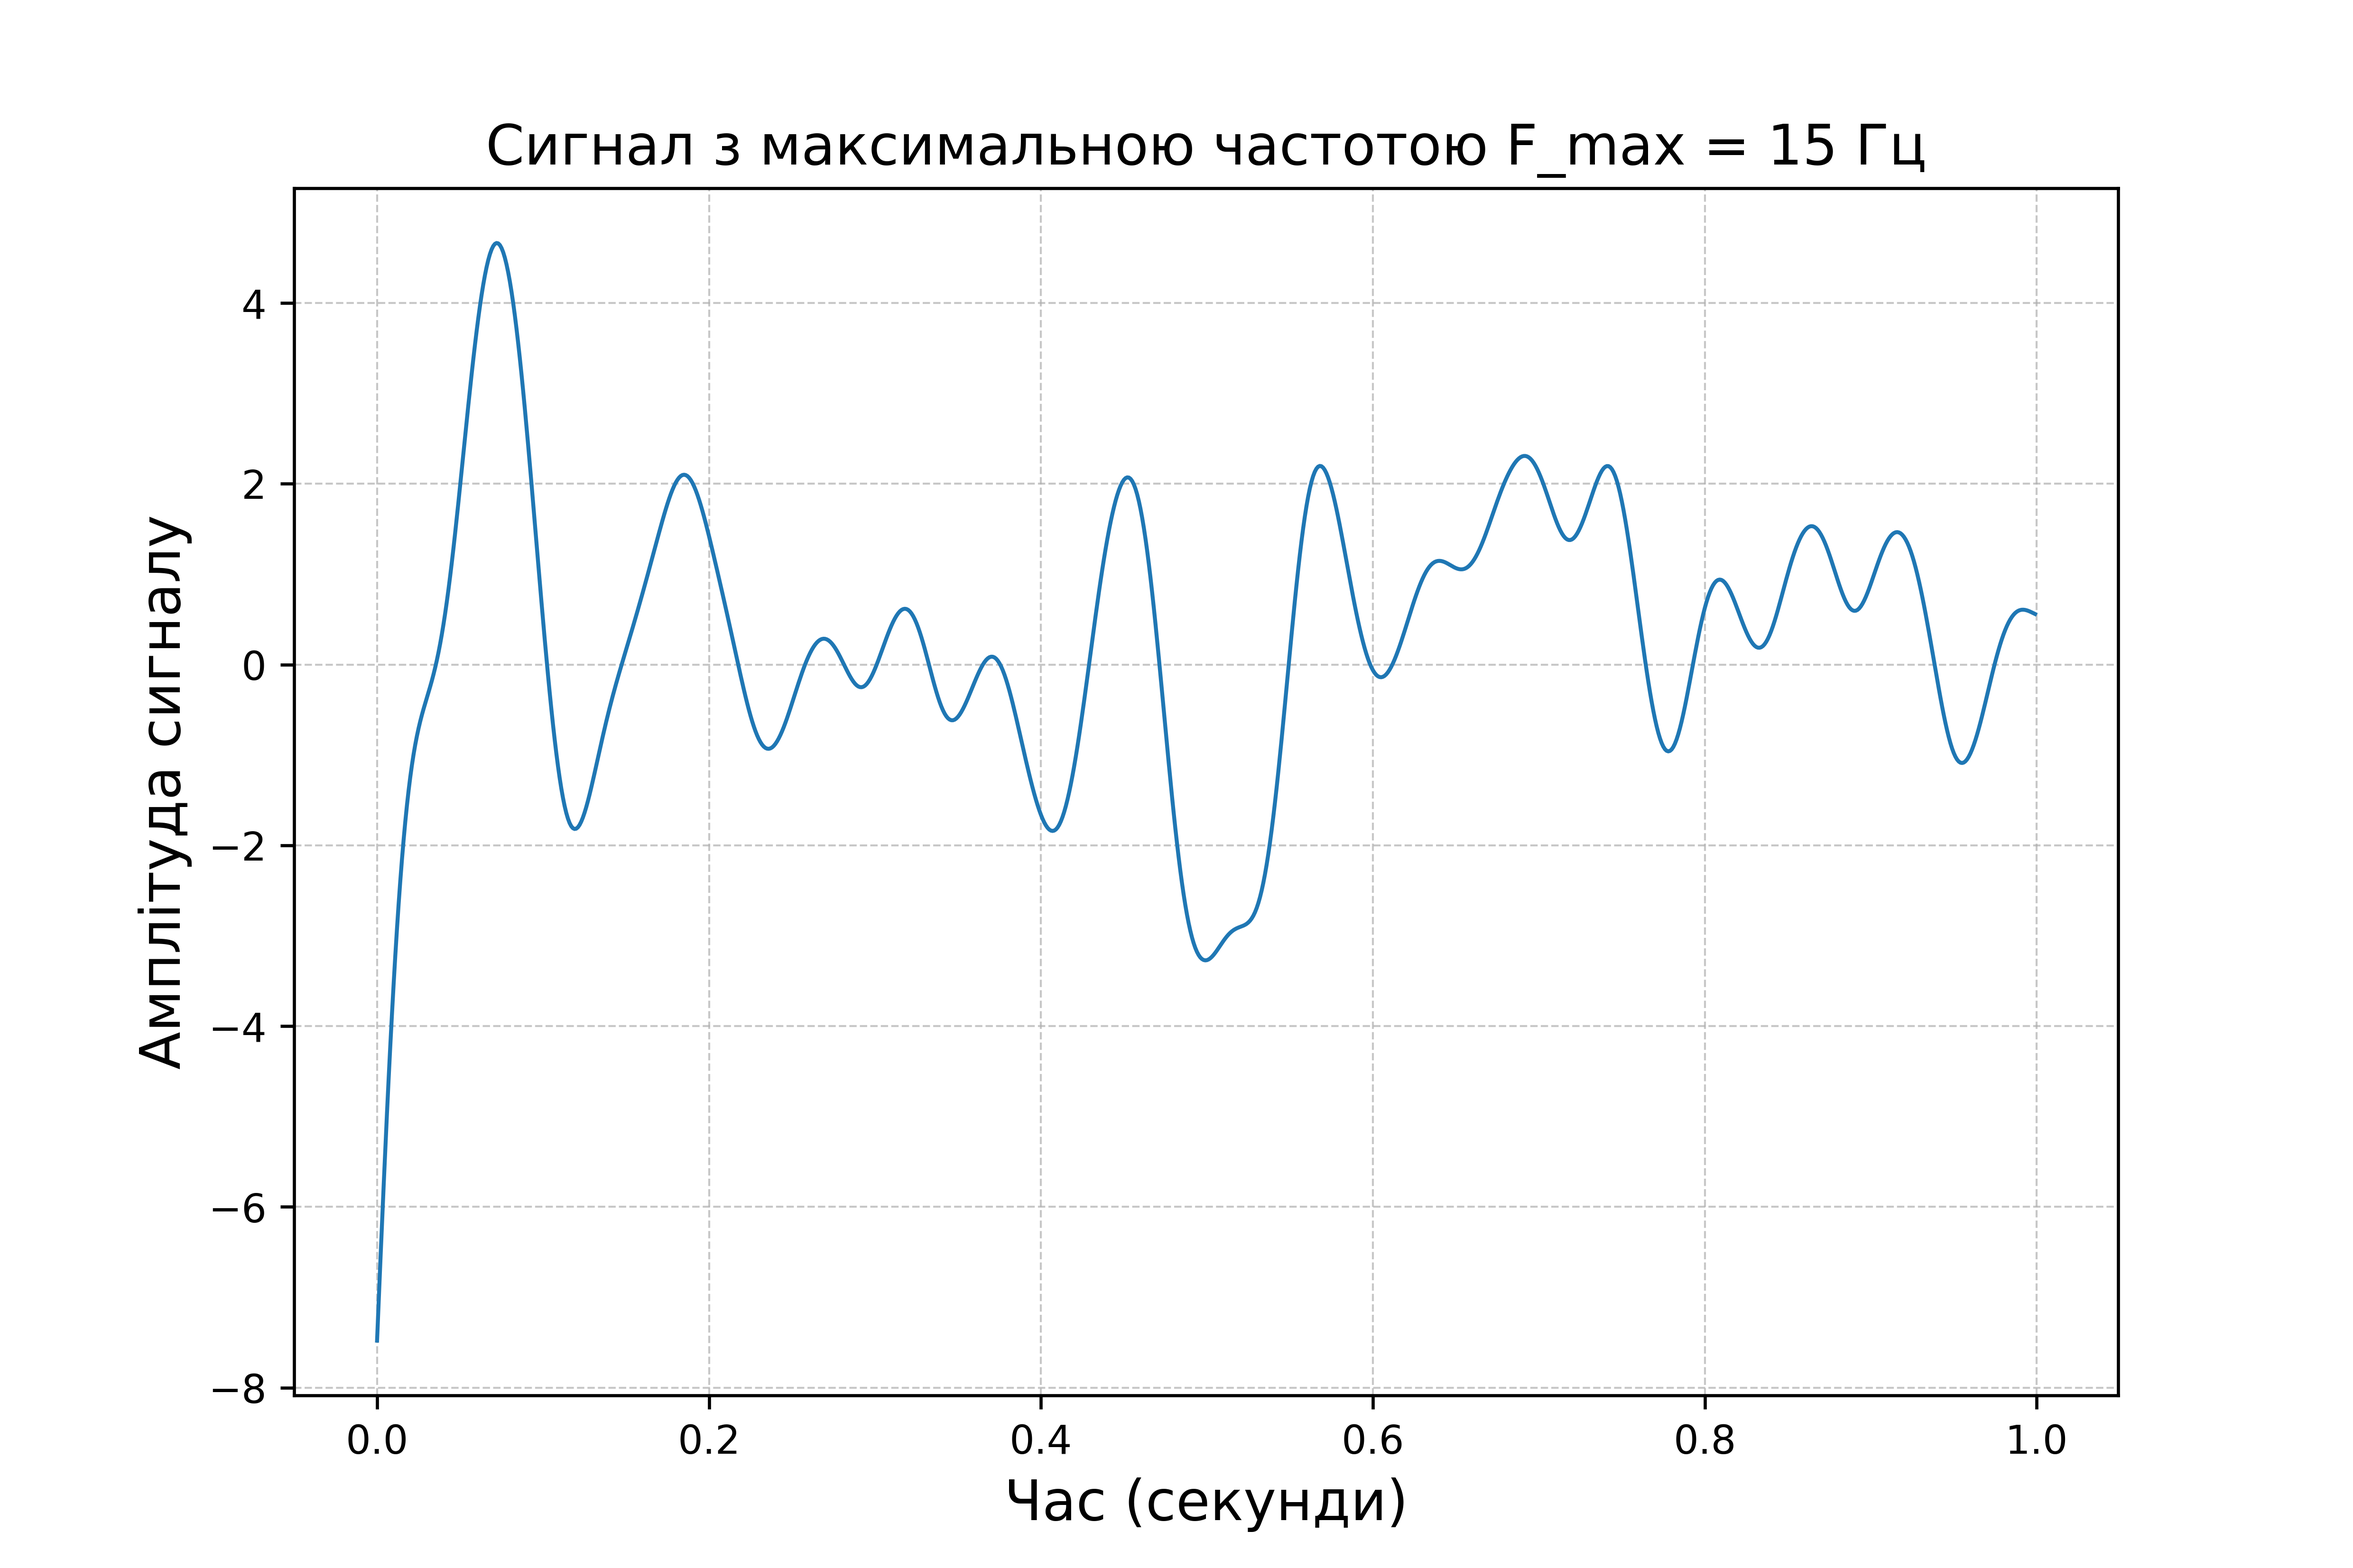
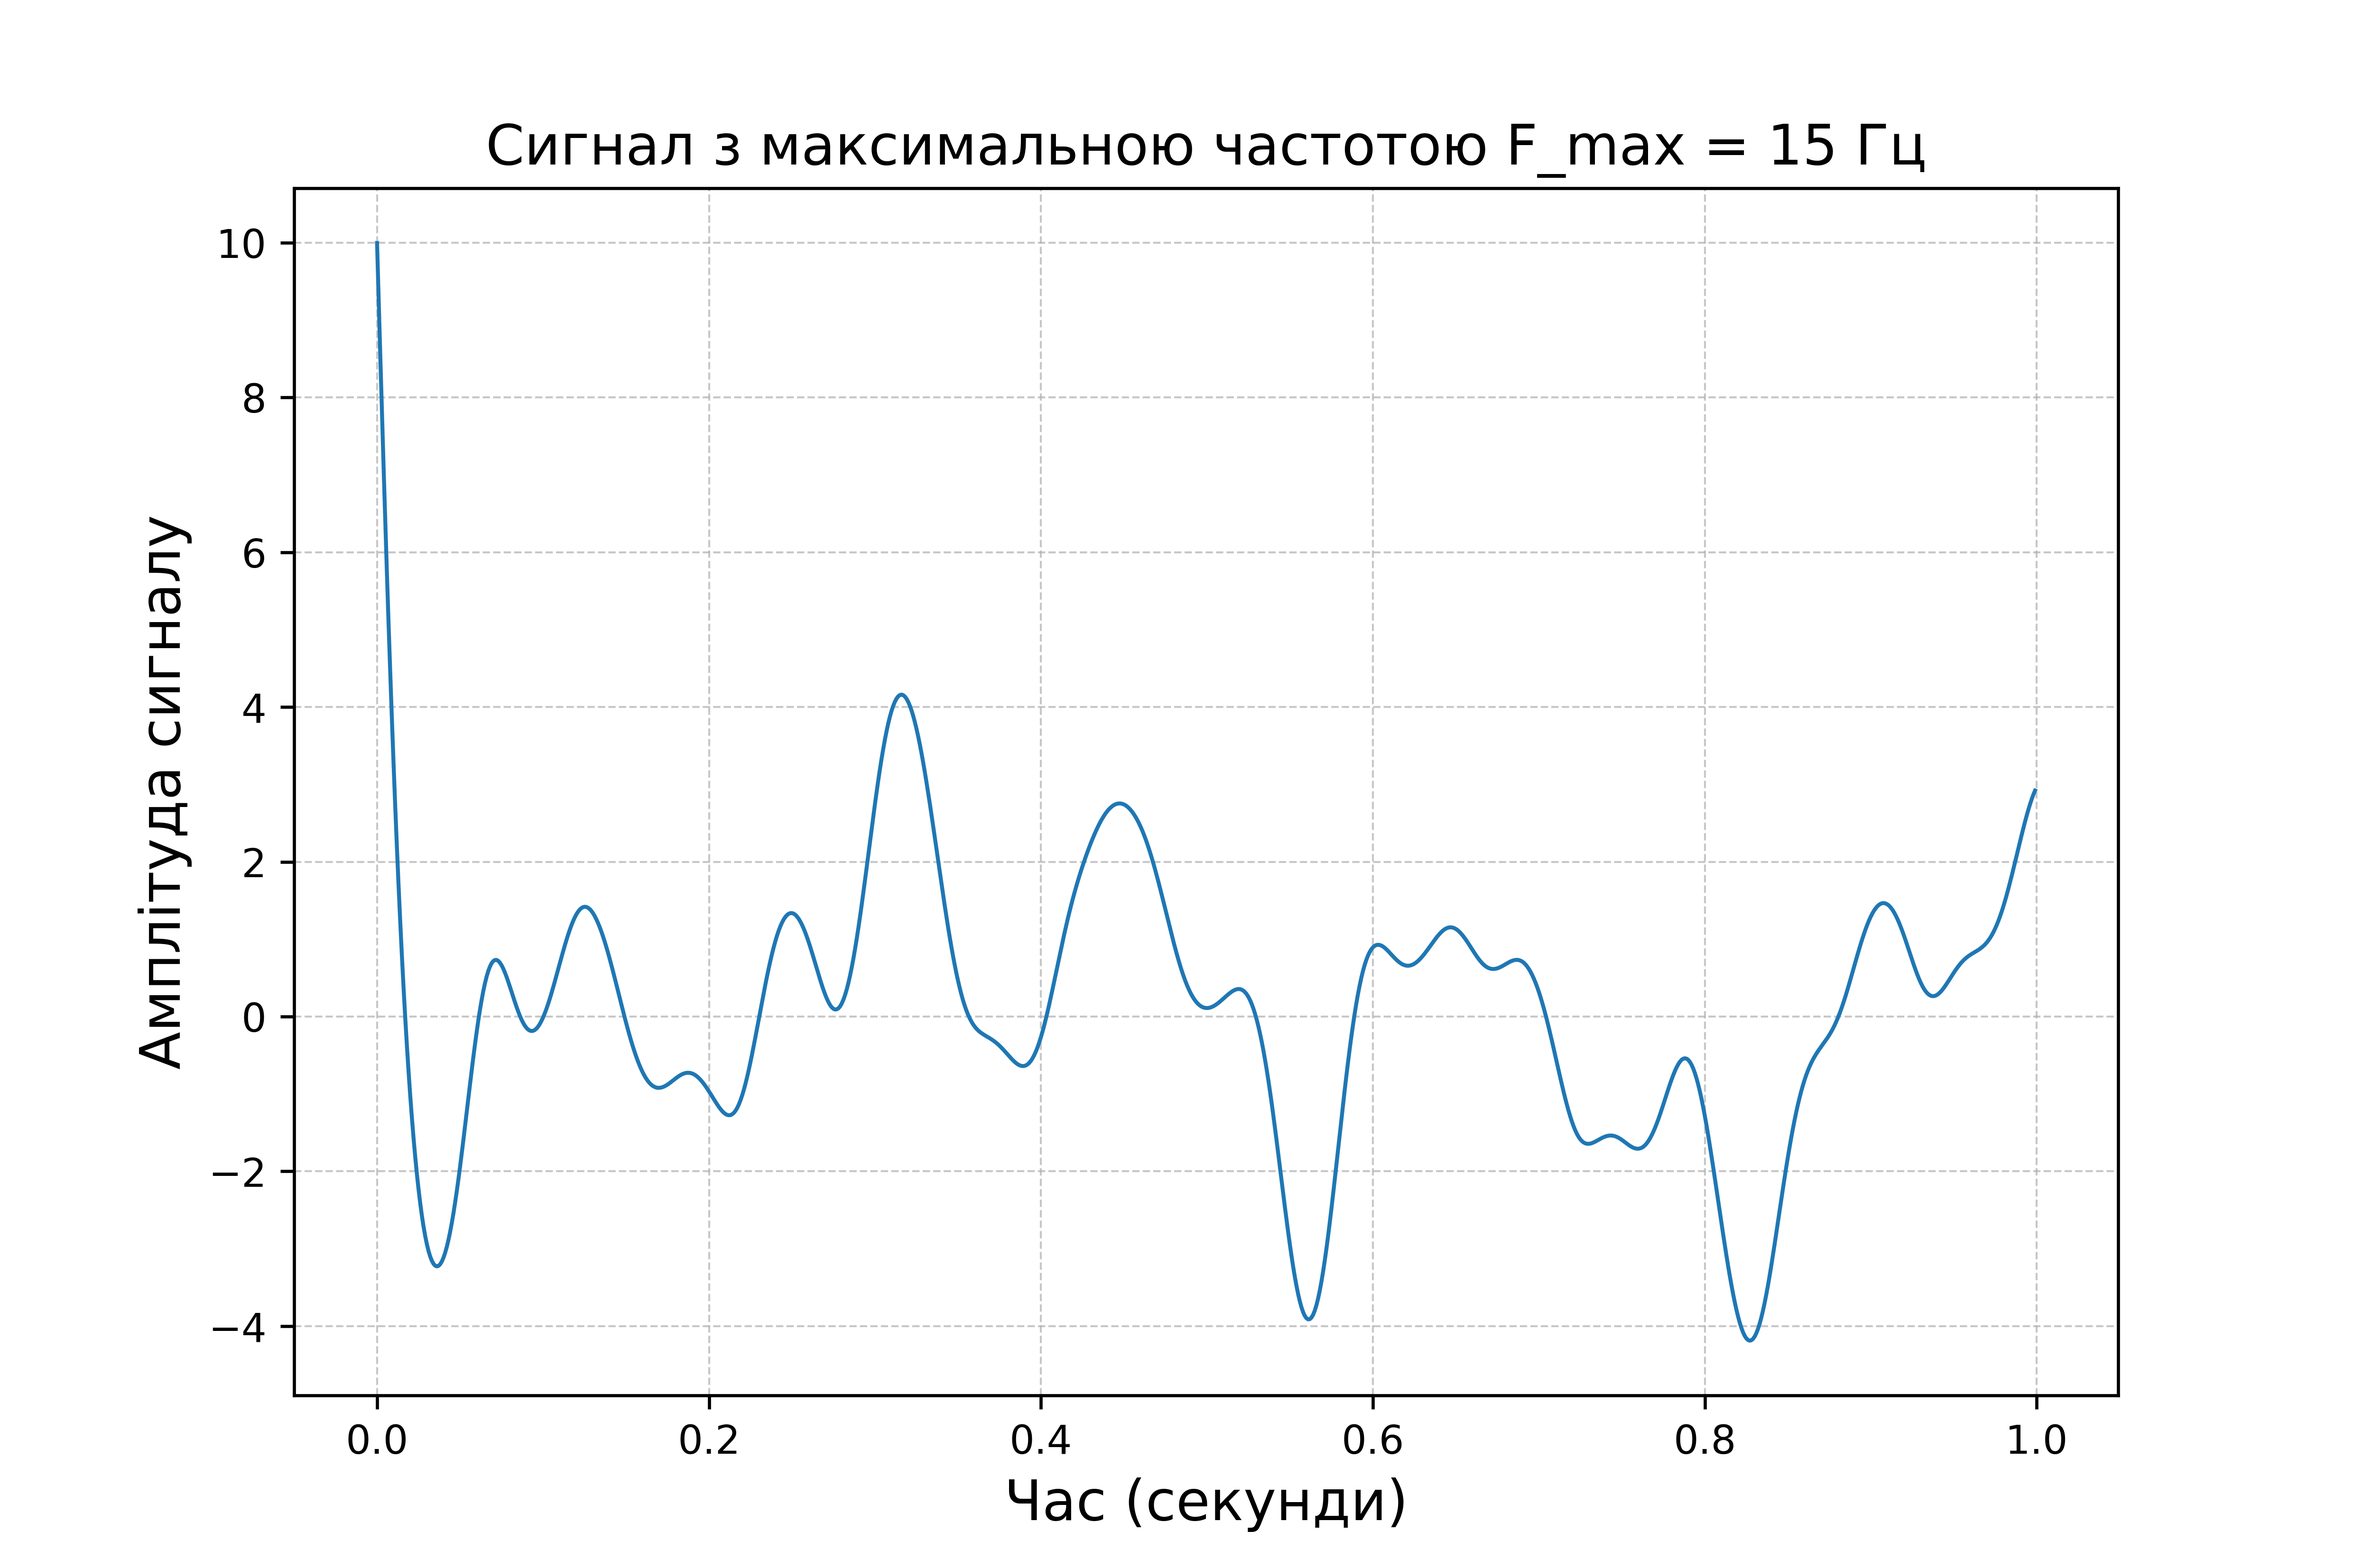
Signal processing, 1

diff --git a/SignalProcessing/SignalProcessing.py b/SignalProcessing/SignalProcessing.py
@@ -25,10 +25,6 @@ sos = signal.butter(3, w, 'low', output='sos')
 # Двонаправлена фільтрація для уникнення фазових зсувів
 filtered_signal = signal.sosfiltfilt(sos, signal_data)
 
-# Переконуємося, що директорія для збереження графіків існує
-figures_dir = "SignalProcessing/figures"
-os.makedirs(figures_dir, exist_ok=True)
-
 # Побудова графіка сигналу
 def plot_signal(x, y, title, xlabel, ylabel, filename):
     # Створюємо папку, якщо вона не існує
